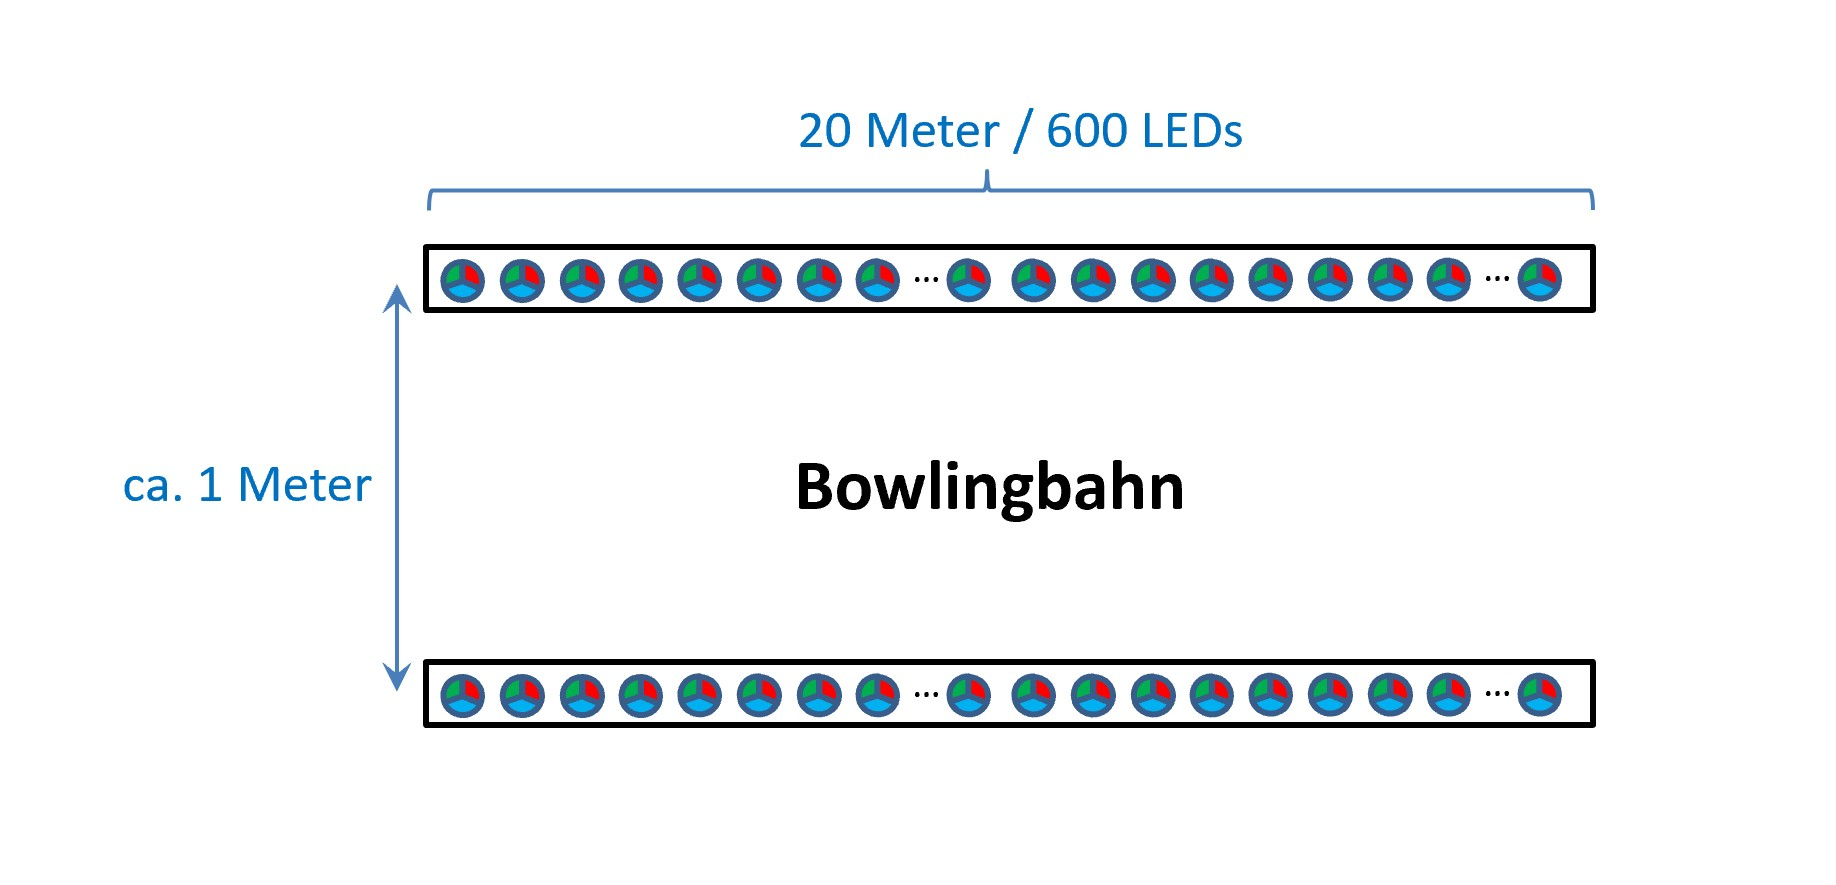
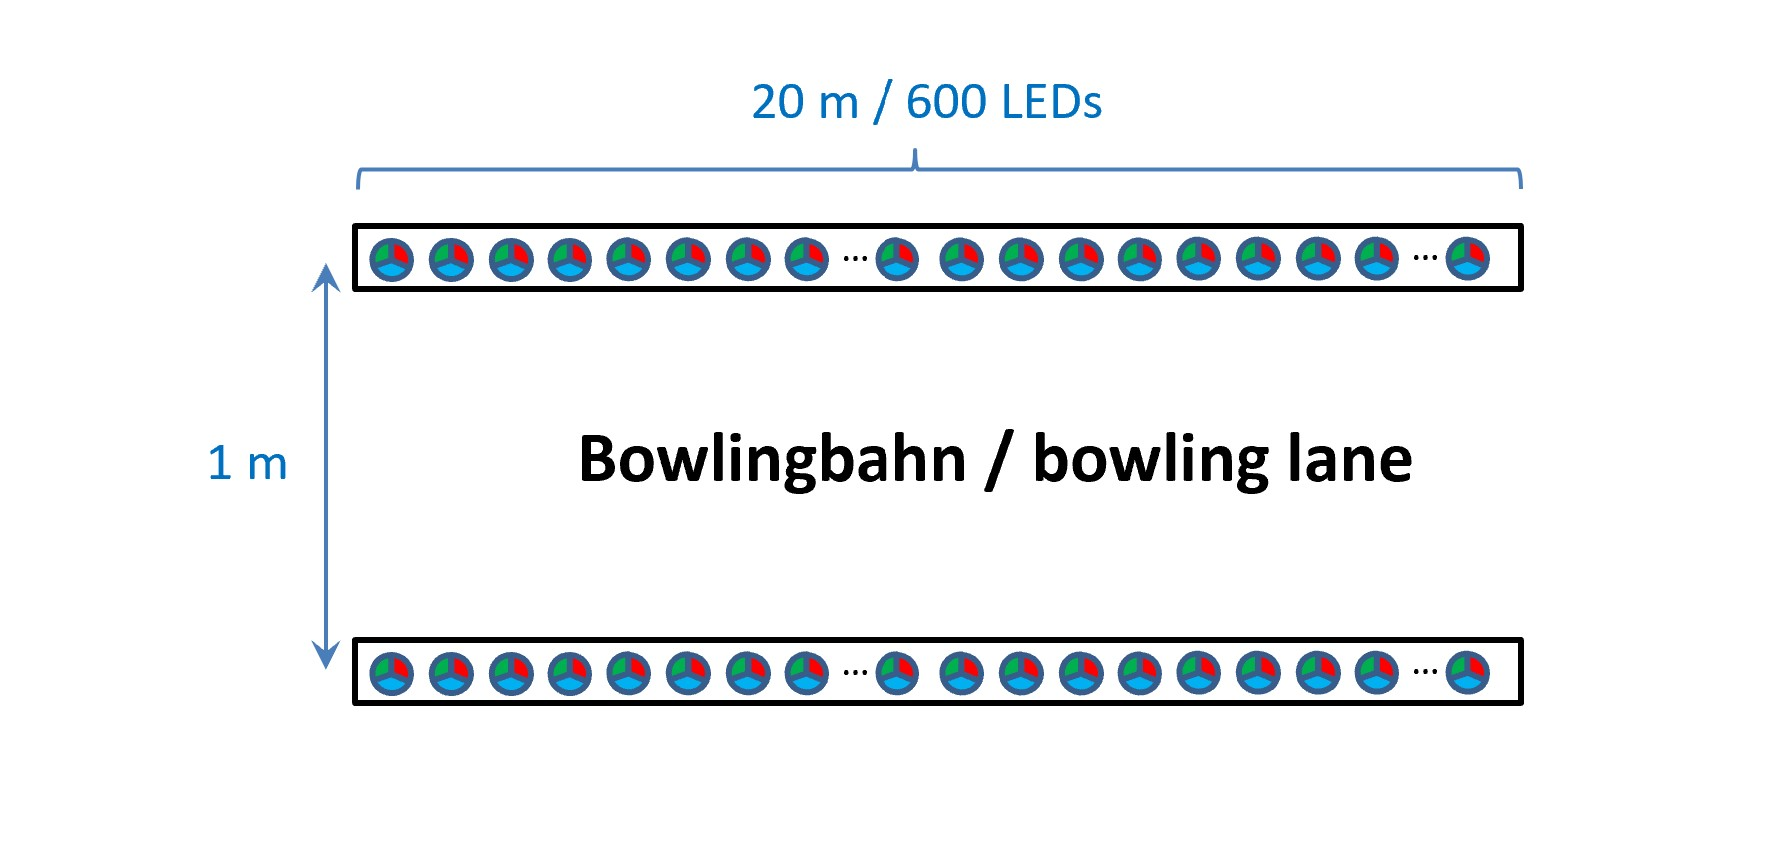
Add files via upload

diff --git a/examples_en.html b/examples_en.html
@@ -26,6 +26,7 @@
 		<li><a href="#Example1">Example 1: A simple LED strip (3 meters with 30 LEDs/meter)</a></li>
 		<li><a href="#Example2">Example 2: A 75 inch TV should have Ambilight. A total of 152 LEDs of type SK6812RGBNW</a></li>
 		<li><a href="#Example3">Example 3: 18 meter WS28xx RGB FCOB LED strip 24 V (720 LEDs/m), two PSU</a></li>
+		<li><a href="#Example4">Example 4: 2x 20 meter WS2811 LED strips for a bowling lane; EMC: avoidance of mass loops</a></li>
 		</ul>
 </div>
 <div class="container m-2 p-0">
@@ -80,6 +81,7 @@
 		The fuses can be integrated into the cable or you can use a special fuse board such as <a href="https://shop.myhome-control.de/Sicherungsboard-fuer-WLED-Controller/HW10010" target="_blank">this one</a>.
 	</div>
   </div>
+  <hr>
   <div class="container"  id="Example3">
 		<h5>Example 3: 18 meter WS28xx RGB FCOB LED strip 24 V (720 LEDs/m), two PSU</h5>
 	<div class="container m-2 p-0">
@@ -115,7 +117,7 @@
 		<ol>
 		<li>The 24 V cable on the LED strip must be cut through at the red points. This ensures that no current can flow from one power supply to the other in order to ensure their trouble-free and safe operation.</li>
 		<li>The total standby power consumption is approx. 10 watts (see calculator results). Therefore, you should use relays to save electricity and protect the environment.</li>
-		<li>The number of “equivalent” physical RGB LEDs is 4320 as calculated above. Since 24 V COB strips usually have 12 of them in a logical group (you can see it based on the amount of cut point per meter on your strip), the number of logical LEDs is 360. These can all be controlled by a single WLED controller; in the WLED software you specify the number of LEDs as 360.</li>
+		<li>The number of “equivalent” physical RGB LEDs is 4320 as calculated above. Since 24 V strips usually have 6 of them in a logical group, the number of logical LEDs is 720. These can all be controlled by a single WLED controller; in the WLED software you specify the number of LEDs as 720.</li>
 		<li>The power distribution can be done directly on each power supply, then 4 lines go up from each power supply, i.e. +24V and GND for each 4.5 m LED section (1080 LEDs). For each segment you can calculate this using the calculator as follows:</li>
 		</ol>
 		<img src="example3_8_en.jpg" class="img-fluid" alt="Beispiel3: Lösung 5" style="width:800px;">
@@ -123,8 +125,49 @@
 		The whole thing can then be implemented, for example, with a controller, two 24 V relay boards and 4x 5A fuses from <a href="https://shop.myhome-control.de" target="_blank">MyHome-Control</a> as follows:
 		<br>
 		<img src="example3_9.jpg" class="img-fluid" alt="Beispiel3: Lösung 6" style="width:400px;">
+		<br>One aspect, namely the negative effect of mass loops, was not covered in this example. Take a look at the next example.
+	</div>
+  <hr>
+  <div class="container"  id="Example4">
+		<h5>Example 4: 2x 20 meter WS2811 LED strips for a bowling lane; EMC: avoidance of mass loops</h5>
+	<div class="container m-2 p-0">
+		<b><u>Problem:</u></b> A bowling alley should be illuminated from both sides with an RGB LED strip. The LED strips on both sides should always light up synchronously with one another. The lane is approx. 20 m long and approx. 1 m wide. Since there is already pretty good white lighting, you decide for RGB strips without separate white LEDs. But you would like to have the option of operating the LEDS with full brightness as RGB white too.
+		<br>
+		<img src="example4_1.jpg" class="img-fluid" alt="Example4: Problem" style="width:400px;">
+		<br>
+		<b><u>Solution:</u></b> You use WS2811 RGB strips with 30 LEDs/m. This means you have 600 LEDs (=20m*30LEDs/m) per side. If you enter this information into the calculator, the current calculated is 8.13 A per side and it has to be fed in from the front and from the back:
+		<br>
+		<img src="example4_2_en.jpg" class="img-fluid" alt="Example4: Solution 1" style="width:800px;">
+		<br>
+		If the power supply is placed at the front, the length of the cable to the rear is approx. 20 meters for each side:
+		<br>
+		<img src="example4_4.jpg" class="img-fluid" alt="Example4: Solution 2" style="width:800px;">
+		<br>
+		This would require a very high cross-section of the cable (6 mm<sup>2</sup>) in order to keep the voltage drop sufficiently low:
+		<br>
+		<img src="example4_3_en.jpg" class="img-fluid" alt="Example4: Solution 3" style="width:800px;">
+		<br>
+		An alternative would be to consider a second power supply, which could be placed at the back and would supply the second half of both LED strips directly from there. To do this, you would separate the 12V in the middle of both strips (for safety reasons, so that both power supplies are decoupled):
+		<br>
+		<img src="example4_5.jpg" class="img-fluid" alt="Example4: Solution 4" style="width:800px;">
+		<br>
+		However, there is still a potential problem to consider: there is a continuous GND connection that basically covers the entire area of the bowling alley. This creates a so-called ground loop, i.e. a low-resistance, large-area loop formed by the ground connection. Such ground loops are problematic from an EMC perspective because they easily introduce interference into the circuit. This can lead to malfunctions in the LEDs. On the other hand, a continuous ground connection of all components is necessary for operation. The problem can be solved, for example, by using a separate power supply for each side at the rear end:
+		<br>
+		<img src="example4_6.jpg" class="img-fluid" alt="Example4: Solution 5" style="width:800px;">
+		<br>
+		This means that all relevant GND connections remain present, but no ground loop is formed.
+		<br>Now all cables can be dimensioned. The first power supply at the front (PSU1) supplies two strip halves with 300 LEDs each. The second and third power supplies (PSU2 and PSU3) also power 300 LEDs each. So we calculate the necessary cable and fuse for each half of the strip (300 LEDs each):
+		<br>
+		<img src="example4_7_en.jpg" class="img-fluid" alt="Example4: Solution 6" style="width:800px;">
+		<br>
+		A 0.34 mm<sup>2</sup> cable with a 5 A fuse is sufficient. However, the wire section between PSU1 and the power distribution to both LED strips must be dimensioned larger. With a 10 A power supply, the cross section is well dimensioned at 1.5 mm<sup>2</sup> and is typically well protected by the overload protection of the power supply. For more safety or if PSU can deliver more than 10 A current, a fuse can be used here.
+		<br>For completeness, it can also be added that the data line of the two strips can be connected to a single data output of the WLED controller, as both strips should always work synchronously.
+		<br>The next picture shows an example of an implementation with a <a href="https://shop.myhome-control.de/ABC-WLED-Controller-Board-5-24V/HW10015" target="_blank">ABC! WLED Controller (5-24V)</a> and a <a href="https://shop.myhome-control.de/Sicherungsboard-fuer-WLED-Controller/HW10010" target="_blank">fuse board</a> shown:
+		<br>
+		<img src="example4_8.jpg" class="img-fluid" alt="Example4: Lösung 7" style="width:800px;">
 		<br>
 	</div>
+  </div>
   </div>
 </div>
 <div class="container m-2 p-0">

diff --git a/examples_de.html b/examples_de.html
@@ -27,6 +27,7 @@
 		<li><a href="#Example1">Beispiel 1: Ein einfaches LED-Streifen (3 Meter mit 30 LEDs/Meter)</a></li>
 		<li><a href="#Example2">Beispiel 2: Ein 75 Zoll TV soll Ambilight bekommen. Gesamt 152 LEDs vom Typ SK6812RGBNW</a></li>
 		<li><a href="#Example3">Beispiel 3: 18 Meter WS28xx RGB FCOB LED Streifen 24 V (720 LEDs/m), mehrere Netzteile</a></li>
+		<li><a href="#Example4">Beispiel 4: 2x 20 Meter WS2811 LED Streifen für eine Bowlingbahn; EMV: Vermeidung Massenschleifen</a></li>
 		</ul>
 </div>
 <div class="container m-2 p-0">
@@ -79,8 +80,10 @@
 		<img src="example2_4.jpg" class="img-fluid" alt="Beispiel2: Ergebnis 2" style="width:400px;">
 		<br>
 		Die Sicherungen können im Kabel integriert werden oder man verwendet ein spezielles Sicherungsboard wie z.B. <a href="https://shop.myhome-control.de/Sicherungsboard-fuer-WLED-Controller/HW10010" target="_blank">dieses</a>.
+		<br>
 	</div>
   </div>
+  <hr>
   <div class="container"  id="Example3">
 		<h5>Beispiel 3: 18 Meter WS28xx RGB FCOB LED Streifen 24 V (720 LEDs/m), mehrere Netzteile</h5>
 	<div class="container m-2 p-0">
@@ -124,6 +127,48 @@
 		Das Ganze kann man dann z.B. mit einem Controller, zwei 24 V Relais Boards und 4x 5A Sicherungen von <a href="https://shop.myhome-control.de" target="_blank">MyHome-Control</a> realisieren:
 		<br>
 		<img src="example3_9.jpg" class="img-fluid" alt="Beispiel3: Lösung " style="width:400px;">
+		<br>
+		Ein Aspekt, nämlich die negative Wirkung von Massenschleifen, wurde in diesem Beispiel nicht behandelt. Schauen Sie dafür das nächste Beispiel an.
+	</div>
+  </div>
+  <hr>
+  <div class="container"  id="Example4">
+		<h5>Beispiel 4: 2x 20 Meter WS2811 LED Streifen für eine Bowlingbahn; EMV: Vermeidung Massenschleifen</h5>
+	<div class="container m-2 p-0">
+		<b><u>Aufgabe:</u></b> Es soll eine Bowlingbahn von beiden Seiten jeweils mit einem RGB LED Streifen beleuchtet werden. Die LED-Streifen auf beiden Seiten sollen zueinander immer synchron leuchten. Die Bahn hat ca. 20 m Länge und ca. 1 m Breite. Da es bereist eine recht gute weiße Beleuchtung gibt, entscheidet man sich für RGB-Streifen ohne separate weißen LEDs. Man möchte aber die Möglichkeit haben die LEDS auch mit voller Helligkeit als RGB-Weiß zu betreiben.
+		<br>
+		<img src="example4_1.jpg" class="img-fluid" alt="Beispiel4: Aufgabe" style="width:400px;">
+		<br>
+		<b><u>Lösung:</u></b> Man setzt WS2811 RGB Streifen ein mit 30 LEDs/m. Damit hat man 600 LEDs (=20m*30LEDs/m) pro Seite. Gibt man diese Angaben in den Rechner ein, ergibt sich ein Strombedarf von 8,13 A pro Seite und es muss von vorne und von hinten eingespeist werden:
+		<br>
+		<img src="example4_2.jpg" class="img-fluid" alt="Beispiel4: Lösung 1" style="width:800px;">
+		<br>
+		Wenn das Netzteil vorne platziert wird, beträgt die Länge der Zuleitung nach hinten für jede Seite ca. 20 Meter:
+		<br>
+		<img src="example4_4.jpg" class="img-fluid" alt="Beispiel4: Lösung 2" style="width:800px;">
+		<br>
+		Damit wäre ein sehr hoher Querschnitt der Leitung notwendig (6 mm<sup>2</sup>), um den Spannungsabfall ausreichend gering zu halten:
+		<br>
+		<img src="example4_3.jpg" class="img-fluid" alt="Beispiel4: Lösung 3" style="width:800px;">
+		<br>
+		Als eine Alternative käme ein zweites Netzteil in Betrachtung, welches hinten platziert werden könnte und direkt von da aus die zweite Hälfte beider LED Streifen versorgen würde. Dafür würde man in der Mitte beiden Streifen die 12V trennen (aus Sicherheitsgründen, damit beide Netzteile entkoppelt sind):
+		<br>
+		<img src="example4_5.jpg" class="img-fluid" alt="Beispiel4: Lösung 4" style="width:800px;">
+		<br>
+		Jedoch muss dabei noch ein potentielles Problem betrachtet werden: es ist eine durchgehende GND-Verbindung vorhanden, die quasi die ganze Fläche der Bowlingbahn umfasst. Damit entsteht eine sogenannte Massenschleife, also eine durch die Masseverbindung ausgebildete niederohmige großflächige Schleife. Solche Massenschleifen sind aus EMV-Sicht problematisch, da durch diese sehr leicht Störungen in den Stromkreis eingekoppelt werden. Das kann zu Störungen der LEDs führen. Anderseits ist eine durchgehende Masseverbindung aller Komponenten für den Betrieb notwendig. Das Problem kann z.B. dadurch gelöst werden, indem man am hinteren Ende für jede Seite ein eigenes Netzteil verwendet:
+		<br>
+		<img src="example4_6.jpg" class="img-fluid" alt="Beispiel4: Lösung 5" style="width:800px;">
+		<br>
+		So bleiben alle relevanten GND-Verbindungen vorhanden, es wird jedoch keine Massenschleife ausgebildet.
+		<br>Nun können alle Leitungen ausgelegt werden. Das erste Netzteil vorne (PSU1) versorgt zwei Streifen-Hälften je 300 LEDs. Das zweite und das dritte Netzteil (PSU2 und PSU3) versorgen auch jeweils 300 LEDs. Wir berechnen also pro Streifen-Hälfte (je 300 LEDs) die notwendige Leitung und Sicherung:
+		<br>
+		<img src="example4_7.jpg" class="img-fluid" alt="Beispiel4: Lösung 6" style="width:800px;">
+		<br>
+		Es reicht also jeweils eine 0,34 mm<sup>2</sup> Leitung mit einer 5 A Sicherung. Der Leitungsabschnitt zwischen PSU1 und der Stromverteilung zu beiden LED Streifen muss jedoch höher dimensioniert werden. Bei einem 10 A Netzteil ist der Querschnitt mit 1,5 mm<sup>2</sup> gut dimensioniert und ist durch den Überlastschutz des Netzteils typischerweise gut geschützt. Für mehr Sicherheit oder wenn das Netzteil deutlich mehr als 10A Strom liefern kann, kann hier eine Sicherung eingesetzt werden. 
+		<br>Zur Vollständigkeit kann noch zugefügt werden, dass die Datenleitung der beiden Streifen an ein Datenausgang des WLED Controllers angeschlossen werden kann, da beide Streifen immer synchron arbeiten sollen.
+		<br>Auf dem nächsten Bild ist beispielhaft eine Realisierung mit einem <a href="https://shop.myhome-control.de/ABC-WLED-Controller-Board-5-24V/HW10015" target="_blank">ABC! WLED Controller (5-24V)</a> und einem <a href="https://shop.myhome-control.de/Sicherungsboard-fuer-WLED-Controller/HW10010" target="_blank">Sicherungsboard</a> gezeigt:
+		<br>
+		<img src="example4_8.jpg" class="img-fluid" alt="Beispiel4: Lösung 7" style="width:800px;">
 		<br>
 	</div>
   </div>
